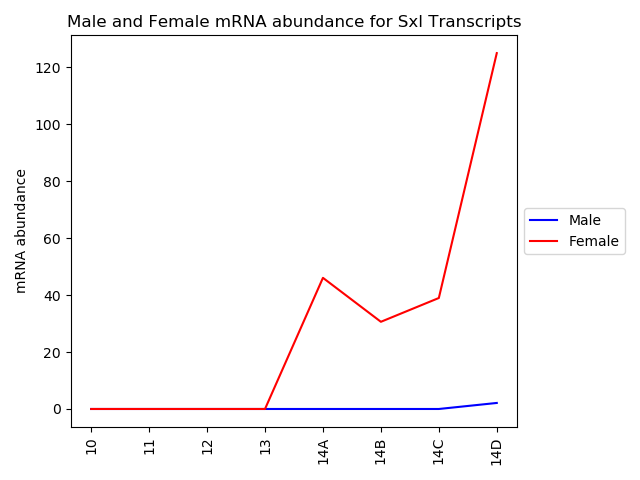
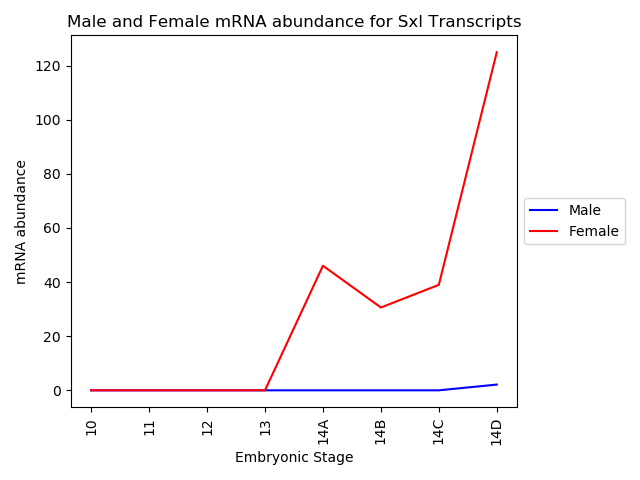
same as before but deleted part

diff --git a/day4-homework/exercise3.py b/day4-homework/exercise3.py
@@ -33,7 +33,7 @@ ax.plot(male_data, color = "blue")
 ax.plot(female_data, color = "red")
 ax.set_title("Male and Female mRNA abundance for Sxl Transcripts")
 
-
+ax.set_xlabel("Embryonic Stage")
 ax.set_xticklabels(labels2, rotation='vertical')
 ax.set_xticks(np.arange(len(labels2)))
 
